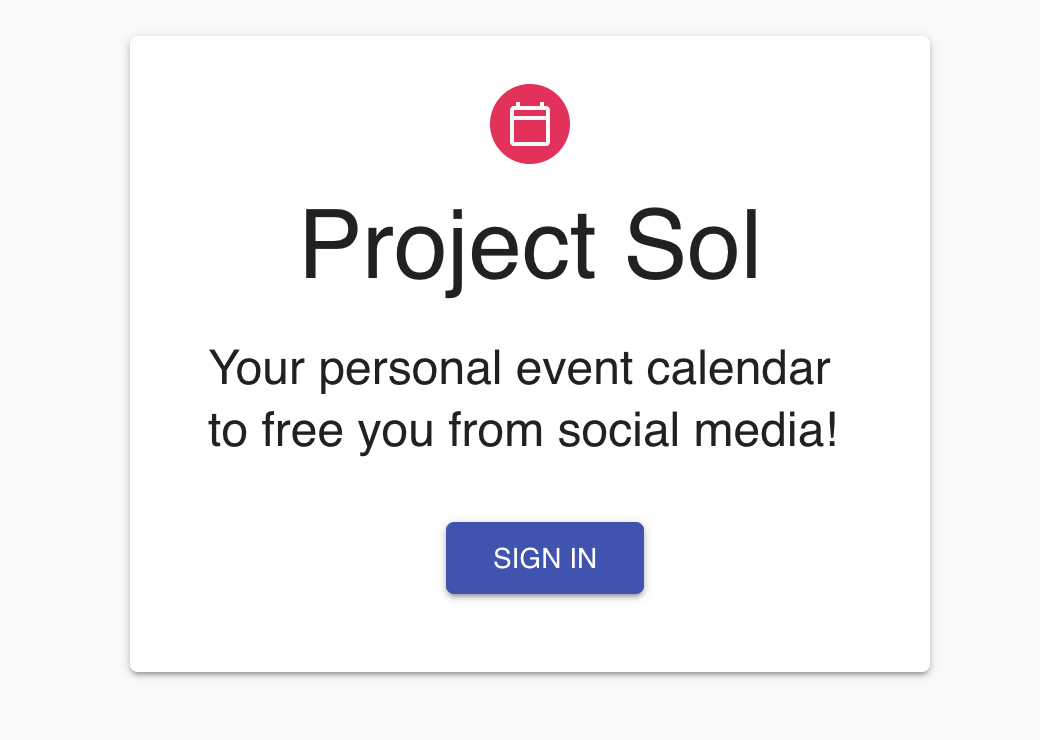
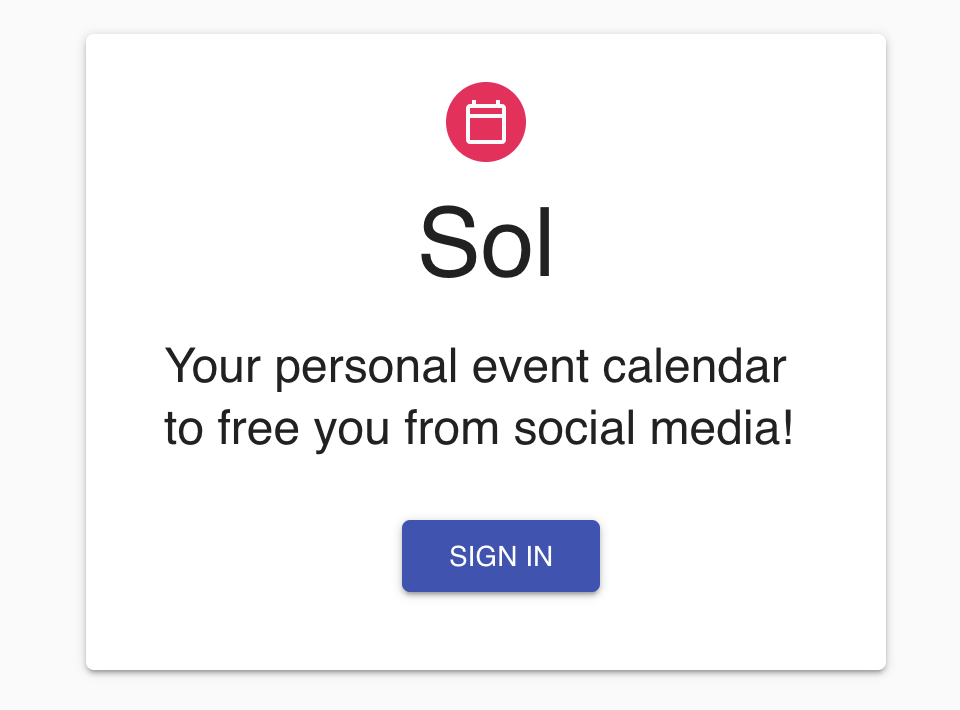
update name

diff --git a/client/src/components/EditEvent/index.js b/client/src/components/EditEvent/index.js
@@ -215,43 +215,33 @@ findDate = (from, to, eFrom, eTo) => {
     const modifiers = { start: from, end: to };
     const { classes, open, handleClose } = this.props;
     return (
-      <div>
+        <div>
         <Dialog
           open={open}
           onClose={()=> handleClose('cancel')}
           aria-labelledby="form-dialog-title"
           fullWidth={true}
-        //maxWidth = {'md'}
+          //maxWidth = {'md'}
         >
-        <DialogTitle id="form-dialog-title">Edit Event</DialogTitle>
+        <Grid
+        spacing={0}
+        direction="column"
+        alignItems="center"
+        justify="center"
+        item xs={12}>
+        <Grid
+            container
+            alignItems="center"
+            >
+            <DialogTitle id="form-dialog-title">Edit Event</DialogTitle>
+        </Grid>
         <Grid
                 container
                 spacing={0}
                 direction="column"
                 alignItems="center"
-                justify="center">
-                <Button
-                      color="primary"  
-                      variant="contained" 
-                      type="submit"
-                      name="DeleteEvent"
-                      style={{ 
-                        color: "white",
-                        margin: "1vh"}}
-                      onClick={this.handleFormSubmitDelete}>
-                        <Send style={{padding: "1vh"}}/> Delete Event
-                    </Button>
-                    <Button
-                      color="primary"  
-                      variant="contained" 
-                      type="submit"
-                      name="EditEvent"
-                      style={{ 
-                        color: "white",
-                        margin: "1vh"}}
-                      onClick={this.handleFormSubmit}>
-                        <Send style={{padding: "1vh"}}/> Edit Event
-                    </Button>
+                justify="center"
+                item xs={12}>
                 <form>
                     <TextField
                     //  required
@@ -264,25 +254,12 @@ findDate = (from, to, eFrom, eTo) => {
                      margin = "normal"
                      variant="outlined"
                      />
-                    {/* <input
-                        type="text"
-                        value={this.state.title}
-                        onChange={this.handleInputChange}
-                        name="title"
-                        placeholder="Event"
-                    />  */}
                     <div className="day-pick">
                         <p>
-                        {/* {!from && !to && 'Please select the first day.'}
-                        {from && !to && 'Please select the last day.'} */}
                         {from &&
                             to &&
                             `Selected from ${from.toLocaleDateString()} to
                                 ${to.toLocaleDateString()}`}{' '}
-                        {/* {eFrom &&
-                            eTo &&
-                            `Selected from ${eFrom.toLocaleDateString()} to
-                                ${eTo.toLocaleDateString()}`}{' '} */}
                         {from &&
                             to && (
                             <button className="link" onClick={this.handleResetClick}>
@@ -375,25 +352,39 @@ findDate = (from, to, eFrom, eTo) => {
                         <option value="pm">PM</option>
 
                     </select>
-                </form>
+                    </form>
                 </Grid>  
+                <Grid
+                container
+                alignItems="center"
+                justify="center"
+                item xs={12}>
+                    <br></br>
+                    <Button
+                        color="primary"  
+                        variant="contained" 
+                        type="submit"
+                        name="DeleteEvent"
+                        style={{ 
+                            color: "white",
+                            margin: "1vh"}}
+                        onClick={this.handleFormSubmitDelete}>
+                            <Send style={{padding: "1vh"}}/> Delete Event
+                        </Button>
+                        <Button
+                        color="primary"  
+                        variant="contained" 
+                        type="submit"
+                        name="EditEvent"
+                        style={{ 
+                            color: "white",
+                            margin: "1vh"}}
+                        onClick={this.handleFormSubmit}>
+                            <Send style={{padding: "1vh"}}/> Edit Event
+                        </Button>
+                    </Grid>
+                </Grid>
           <DialogActions>
-          {/* <MuiThemeProvider 
-          //theme={theme}
-          > */}
-                    {/* <Button
-                      color="primary"  
-                      variant="contained" 
-                      type="submit"
-                      name="EditEvent"
-                      style={{ 
-                        color: "white",
-                        margin: "1vh"}}
-                      onClick={this.handleFormSubmit}>
-                        <Send style={{padding: "1vh"}}/> Edit Event
-                    </Button>
-                    <br></br> */}
-                {/* </MuiThemeProvider> */}
           </DialogActions>
         </Dialog>
       </div>

diff --git a/client/src/components/HomePage.js b/client/src/components/HomePage.js
@@ -65,7 +65,7 @@ function SignIn(props) {
           <CalendarTodayOutlinedIcon/>
         </Avatar>
         <Typography component="h1" variant="h3" className={classes.title}>
-          Project Sol
+          Sol
         </Typography>
 
         <Typography component="h2" variant="h5" className={classes.description}>

diff --git a/README.md b/README.md
@@ -1,4 +1,4 @@
-# Project Sol
+# Sol
 
 Your personal event calendar to free you from social media!
 
